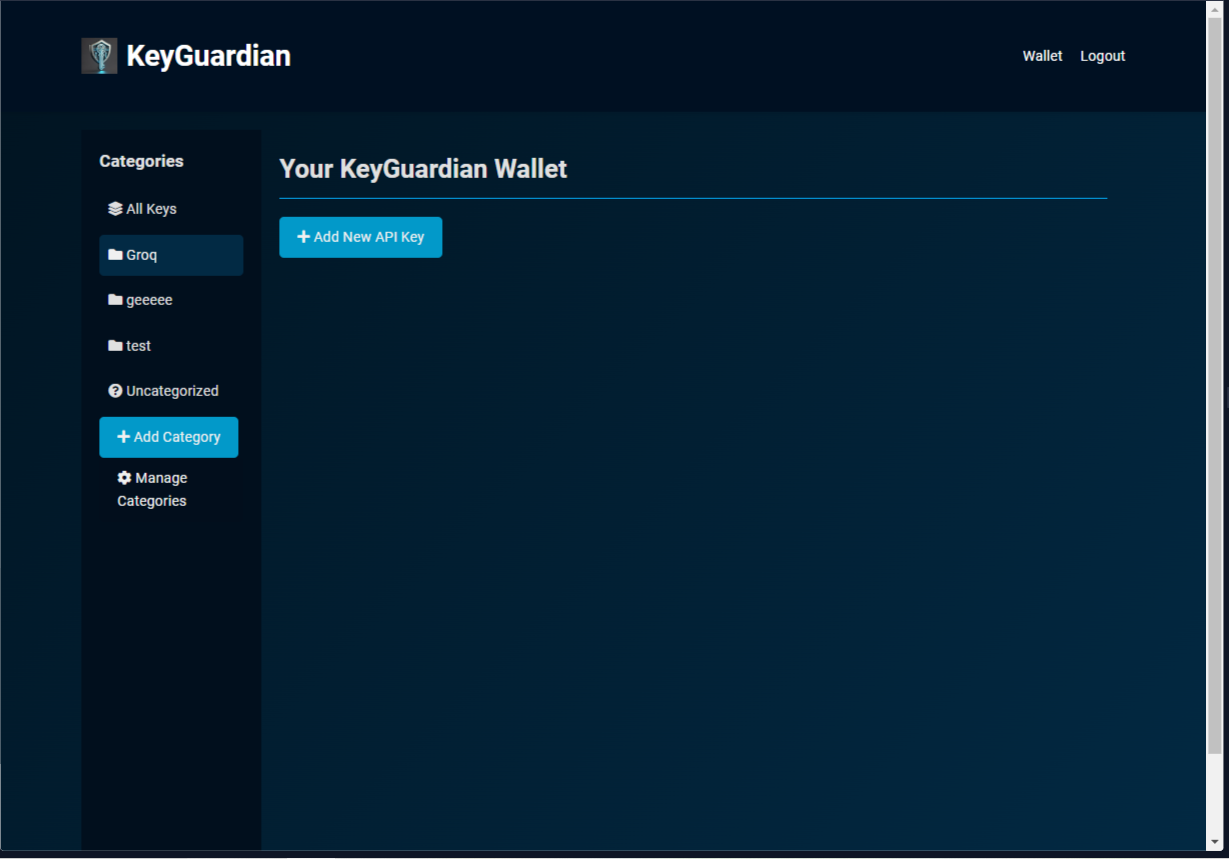
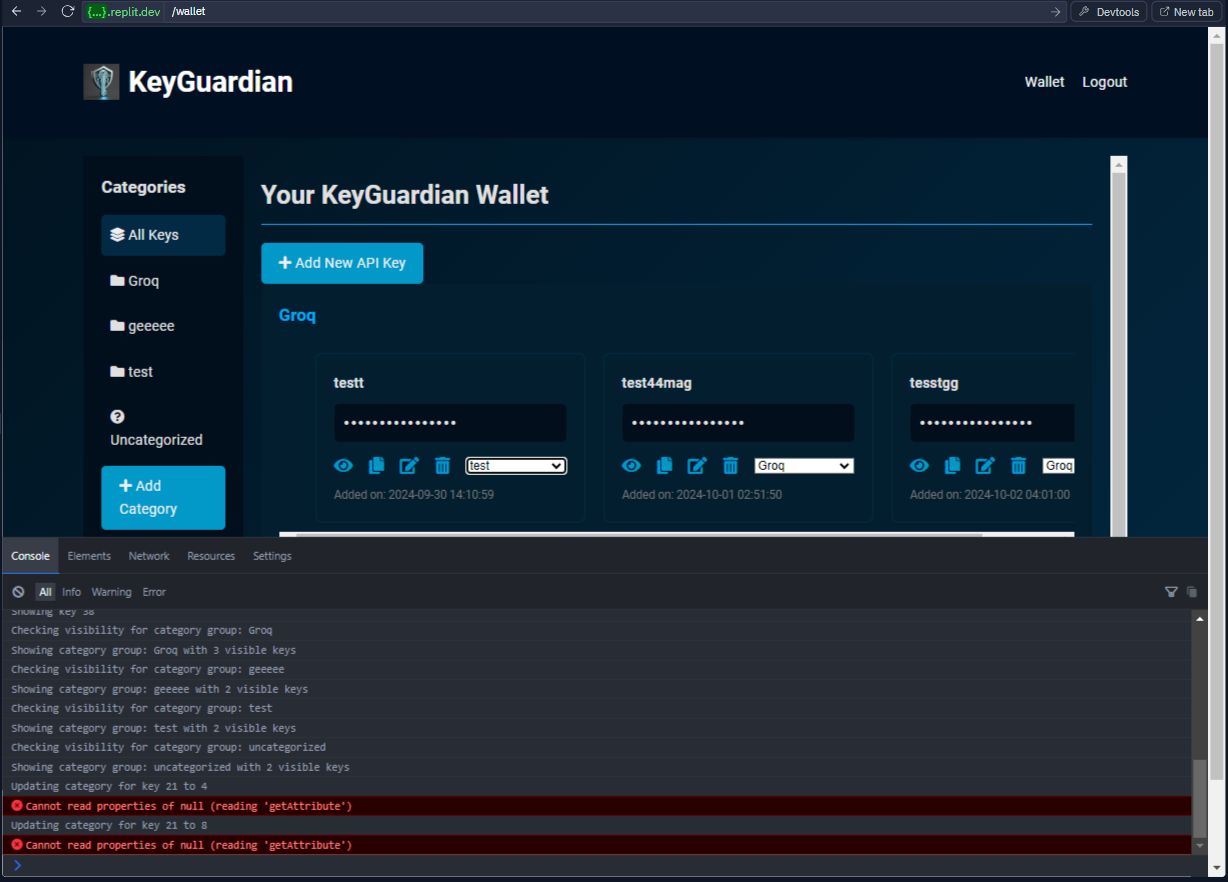
Agent query: Please perform the following actions and provide detailed feedback: 1. Log in to the application. 2. Navigate to the wallet page. 3. Try to change the category of an API key using the dropdown menu. 4. Check if there are any errors in the browser's console related to updating categories

diff --git a/static/js/main.js b/static/js/main.js
@@ -74,28 +74,35 @@ document.addEventListener('DOMContentLoaded', function() {
         const categoryGroups = document.querySelectorAll('.category-group');
 
         apiKeys.forEach(key => {
-            const keyCategory = key.getAttribute('data-category-id');
-            console.log(`Key ${key.getAttribute('data-key-id')} category: ${keyCategory}, Filtering category: ${categoryId}`);
-            if (categoryId === 'all' || categoryId === keyCategory || (categoryId === 'uncategorized' && (!keyCategory || keyCategory === '0'))) {
-                key.closest('.category-group').style.display = 'block';
-                key.style.display = 'block';
-                console.log(`Showing key ${key.getAttribute('data-key-id')}`);
-            } else {
-                key.style.display = 'none';
-                console.log(`Hiding key ${key.getAttribute('data-key-id')}`);
+            if (key) {
+                const keyCategory = key.getAttribute('data-category-id');
+                console.log(`Key ${key.getAttribute('data-key-id')} category: ${keyCategory}, Filtering category: ${categoryId}`);
+                if (categoryId === 'all' || categoryId === keyCategory || (categoryId === 'uncategorized' && (!keyCategory || keyCategory === '0'))) {
+                    const categoryGroup = key.closest('.category-group');
+                    if (categoryGroup) {
+                        categoryGroup.style.display = 'block';
+                    }
+                    key.style.display = 'block';
+                    console.log(`Showing key ${key.getAttribute('data-key-id')}`);
+                } else {
+                    key.style.display = 'none';
+                    console.log(`Hiding key ${key.getAttribute('data-key-id')}`);
+                }
             }
         });
 
         categoryGroups.forEach(group => {
-            const groupCategory = group.getAttribute('data-category-id');
-            console.log(`Checking visibility for category group: ${groupCategory}`);
-            const visibleKeys = group.querySelectorAll('.api-key[style="display: block;"]');
-            if (visibleKeys.length === 0) {
-                group.style.display = 'none';
-                console.log(`Hiding category group: ${groupCategory}`);
-            } else {
-                group.style.display = 'block';
-                console.log(`Showing category group: ${groupCategory} with ${visibleKeys.length} visible keys`);
+            if (group) {
+                const groupCategory = group.getAttribute('data-category-id');
+                console.log(`Checking visibility for category group: ${groupCategory}`);
+                const visibleKeys = group.querySelectorAll('.api-key[style="display: block;"]');
+                if (visibleKeys.length === 0) {
+                    group.style.display = 'none';
+                    console.log(`Hiding category group: ${groupCategory}`);
+                } else {
+                    group.style.display = 'block';
+                    console.log(`Showing category group: ${groupCategory} with ${visibleKeys.length} visible keys`);
+                }
             }
         });
     }
@@ -103,7 +110,7 @@ document.addEventListener('DOMContentLoaded', function() {
     function updateKeyCategory(keyId, categoryId) {
         console.log(`Updating category for key ${keyId} to ${categoryId}`);
         const csrfToken = getCsrfToken();
-        console.log('CSRF Token:', csrfToken); // Log the CSRF token
+        console.log('CSRF Token:', csrfToken);
 
         if (!csrfToken) {
             console.error('CSRF token not found');
@@ -120,20 +127,29 @@ document.addEventListener('DOMContentLoaded', function() {
             body: JSON.stringify({ category_id: categoryId })
         })
         .then(response => {
-            console.log('Response status:', response.status); // Log the response status
+            console.log('Response status:', response.status);
             if (!response.ok) {
                 throw new Error(`HTTP error! status: ${response.status}`);
             }
             return response.json();
         })
         .then(data => {
-            console.log('Response data:', data); // Log the response data
+            console.log('Response data:', data);
             if (data.message) {
                 console.log(`Category update successful: ${data.message}`);
                 showFeedback(data.message, 'success');
                 const apiKey = document.querySelector(`.api-key[data-key-id="${keyId}"]`);
-                apiKey.setAttribute('data-category-id', categoryId);
-                filterApiKeys(document.querySelector('#category-list li.active').getAttribute('data-category-id'));
+                if (apiKey) {
+                    apiKey.setAttribute('data-category-id', categoryId);
+                    const activeCategory = document.querySelector('#category-list li.active');
+                    if (activeCategory) {
+                        filterApiKeys(activeCategory.getAttribute('data-category-id'));
+                    } else {
+                        console.error('No active category found');
+                    }
+                } else {
+                    console.error(`API key element with id ${keyId} not found`);
+                }
             } else if (data.error) {
                 console.error(`Category update failed: ${data.error}`);
                 showFeedback(data.error, 'error');
@@ -146,7 +162,8 @@ document.addEventListener('DOMContentLoaded', function() {
     }
 
     function getCsrfToken() {
-        return document.querySelector('meta[name="csrf-token"]').getAttribute('content');
+        const metaTag = document.querySelector('meta[name="csrf-token"]');
+        return metaTag ? metaTag.getAttribute('content') : null;
     }
 
     function showFeedback(message, type) {
@@ -160,5 +177,10 @@ document.addEventListener('DOMContentLoaded', function() {
     }
 
     console.log('Initial category selection');
-    document.querySelector('#category-list li[data-category-id="all"]').click();
+    const allCategoryLi = document.querySelector('#category-list li[data-category-id="all"]');
+    if (allCategoryLi) {
+        allCategoryLi.click();
+    } else {
+        console.error('All category list item not found');
+    }
 });
